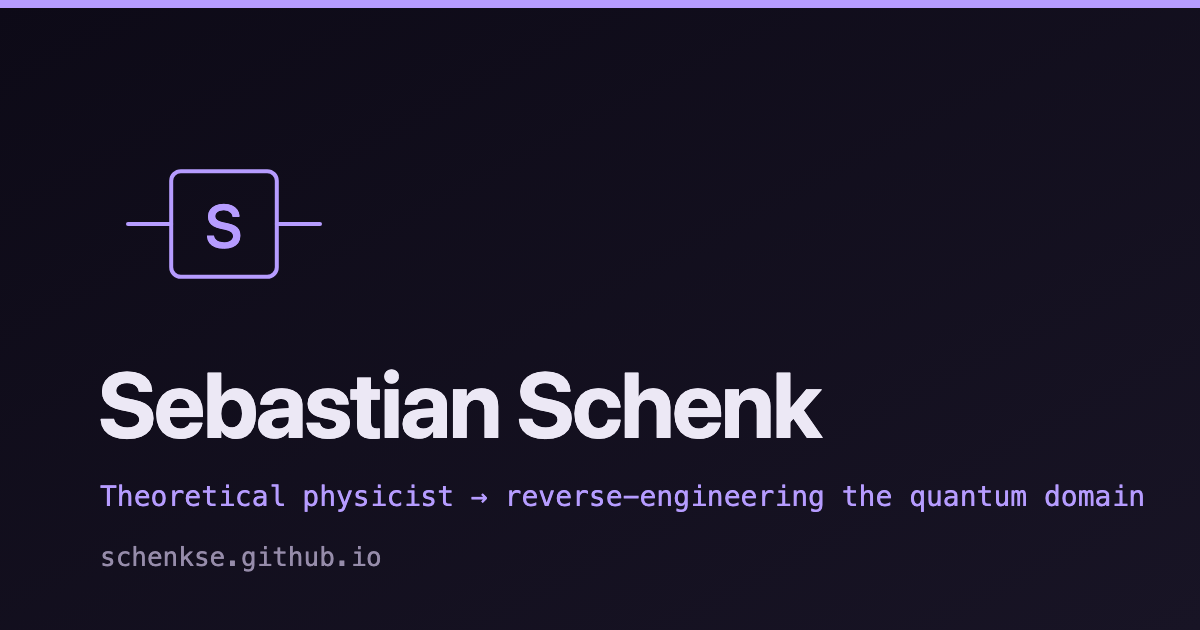
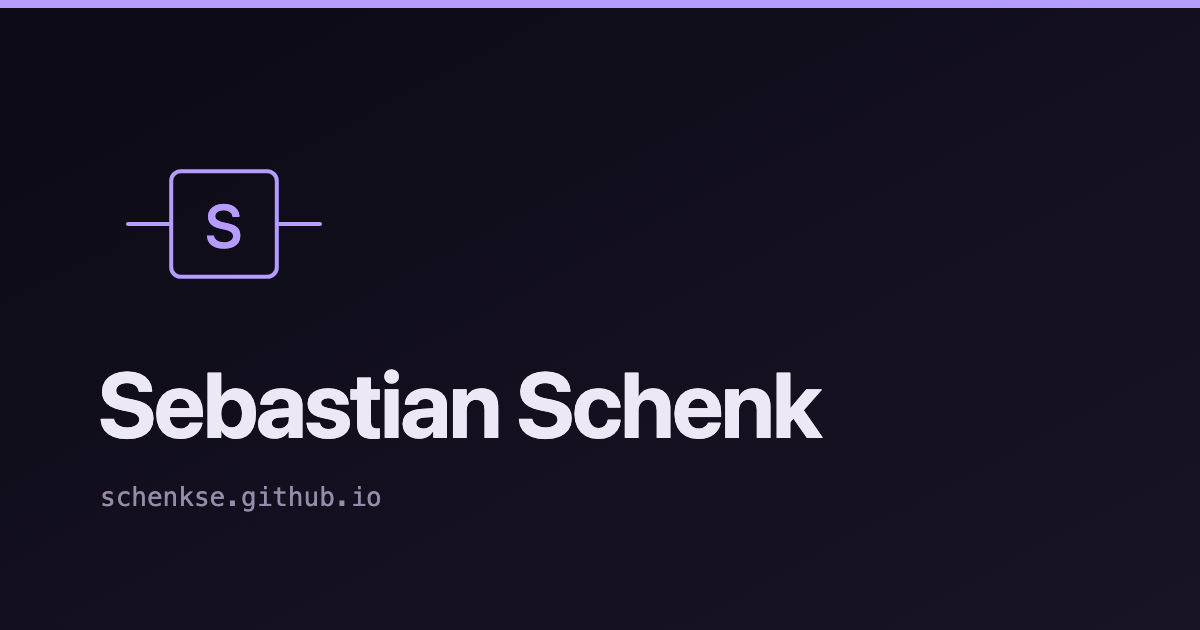
Update hero tagline and simplify OG image
Change the hero tagline to "mostly thinking, occasionally calculating".
Remove the tagline from the OG image entirely so the social card no
longer needs re-rendering on copy changes, and re-render the PNG with
just the brandmark, name, and URL.

Changed region(s): [[0.0617, 0.754, 0.9558, 0.8143], [0.0617, 0.8746, 0.3392, 0.9048]]

diff --git a/index.html b/index.html
@@ -238,7 +238,7 @@
             <h1 id="hero-heading" class="hero__name">Sebastian Schenk</h1>
             <p class="hero__tagline">
               Theoretical physicist <span class="hero__arrow" aria-hidden="true">→</span>
-              reverse-engineering the quantum domain.
+              mostly thinking, occasionally calculating.
             </p>
             <p class="hero__intro">
               I work on quantum field theory and its less-tractable corners.
